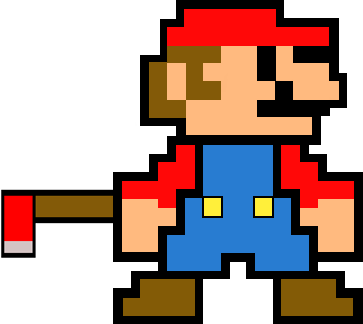
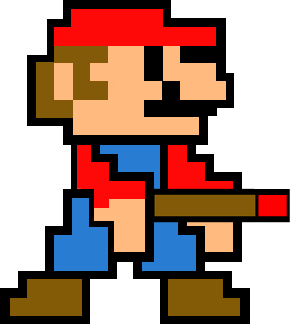
Code Cleanup + Fixing Character Movement

diff --git a/classes/player.js b/classes/player.js
@@ -7,6 +7,10 @@ class Player {
         this.characterPos = "left";
         this.characterImage = new Image();
         this.characterImage.src = "./pictures/character_standing.png";
+        this.characterImageLeft = new Image();
+        this.characterImageLeft.src = "./pictures/character_standing_left.png";
+        this.characterImageRight = new Image();
+        this.characterImageRight.src = "./pictures/character_standing_right.png";
         this.score = 0;
     }
 
@@ -14,11 +18,13 @@ class Player {
         if (direction == "right" && this.characterPos == "left") {
             this.characterX += 150;
             this.characterPos = "right";
+            this.characterImage.src = this.characterImageRight.src;
         }
 
         if (direction == "left" && this.characterPos == "right") {
             this.characterX -= 150;
             this.characterPos = "left";
+            this.characterImage.src = this.characterImageLeft.src;
         }
     }
 }

diff --git a/style.css b/style.css
@@ -9,7 +9,7 @@ html, body {
 }
 #myCanvas {
     background-image: url('pictures/game_background.png');
-    background-repeat: no-repeat;
+    background-repeat: repeat;
     background-size: cover;
 }
 

diff --git a/script.js b/script.js
@@ -95,3 +95,5 @@ window.onload = () => {
     gameWindow.drawTree();
     gameWindow.drawHUD();
 }
+
+//Messing around with the P5 Library
